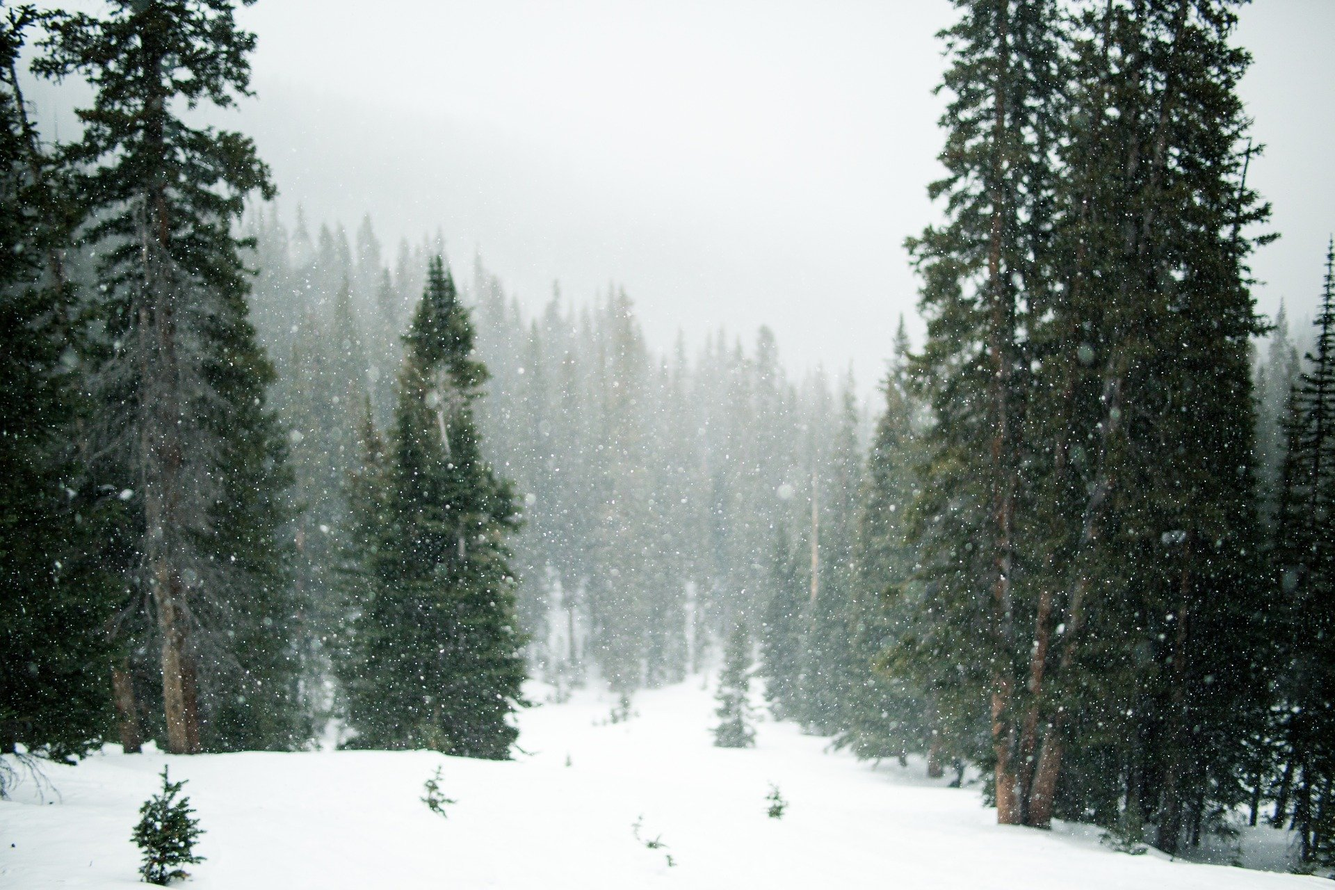
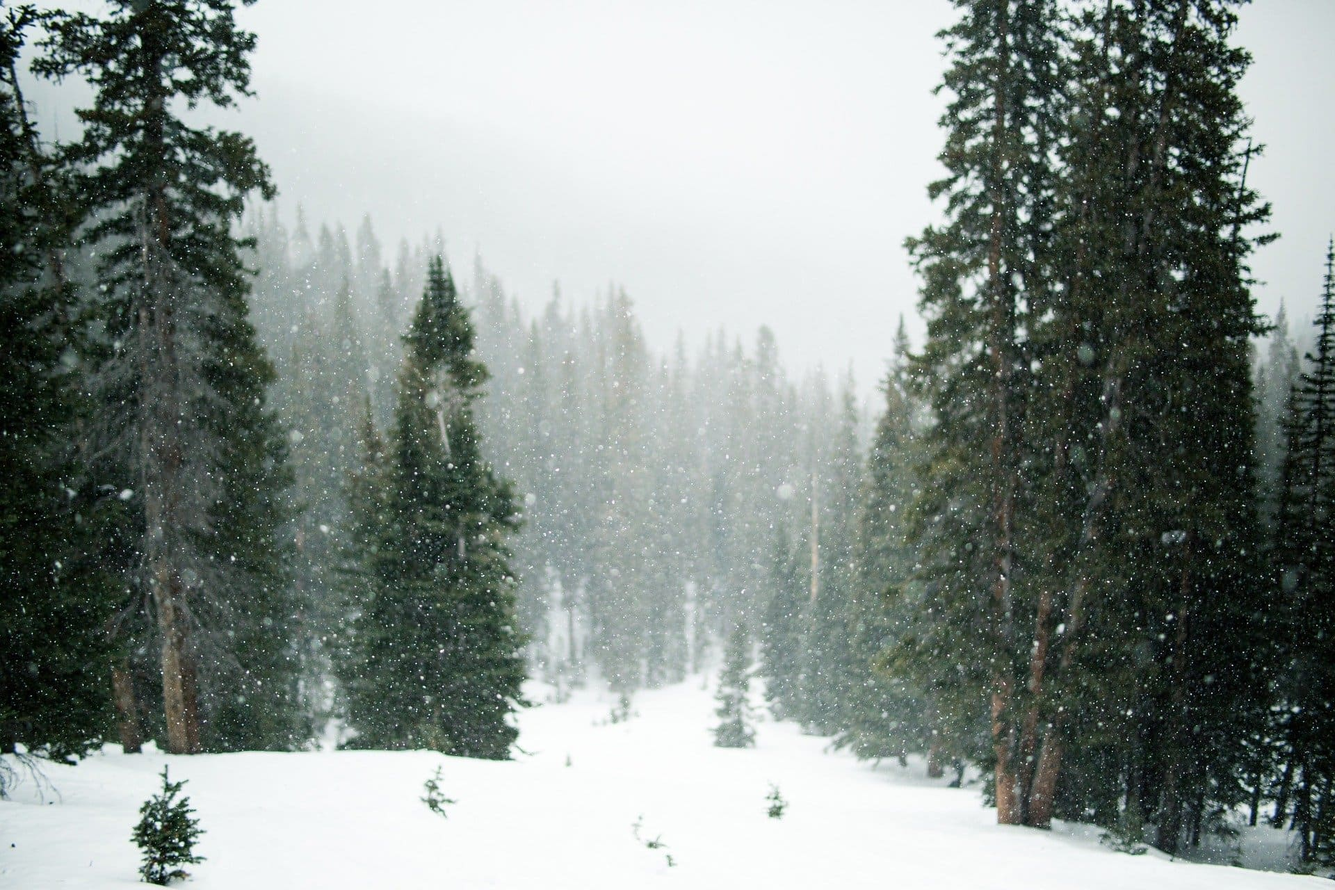
compressed images & Responsive Spinner

diff --git a/styles.css b/styles.css
@@ -91,6 +91,40 @@ p {
 }
 
 
+@media only screen and (max-width: 414px) {
+  #spinner{
+    display: none;
+    width: 80px;
+    height: 80px;
+  
+    border: 2px solid #f3f3f3;
+    border-top:3px solid #f25a41;
+    border-radius: 100%;
+  
+    position: absolute;
+    top: 0%;
+    bottom: 8%;
+    left: 40%;
+    right: 46%;
+    margin: auto;
+  
+    animation: spin 1s infinite linear;
+  }
+  
+  @keyframes spin {
+    from {
+        transform: rotate(0deg);
+    } to {
+        transform: rotate(360deg);
+    }
+  }
+  
+  #spinner.show {
+    display:flex;
+  }
+}
+
+
 
 
 
